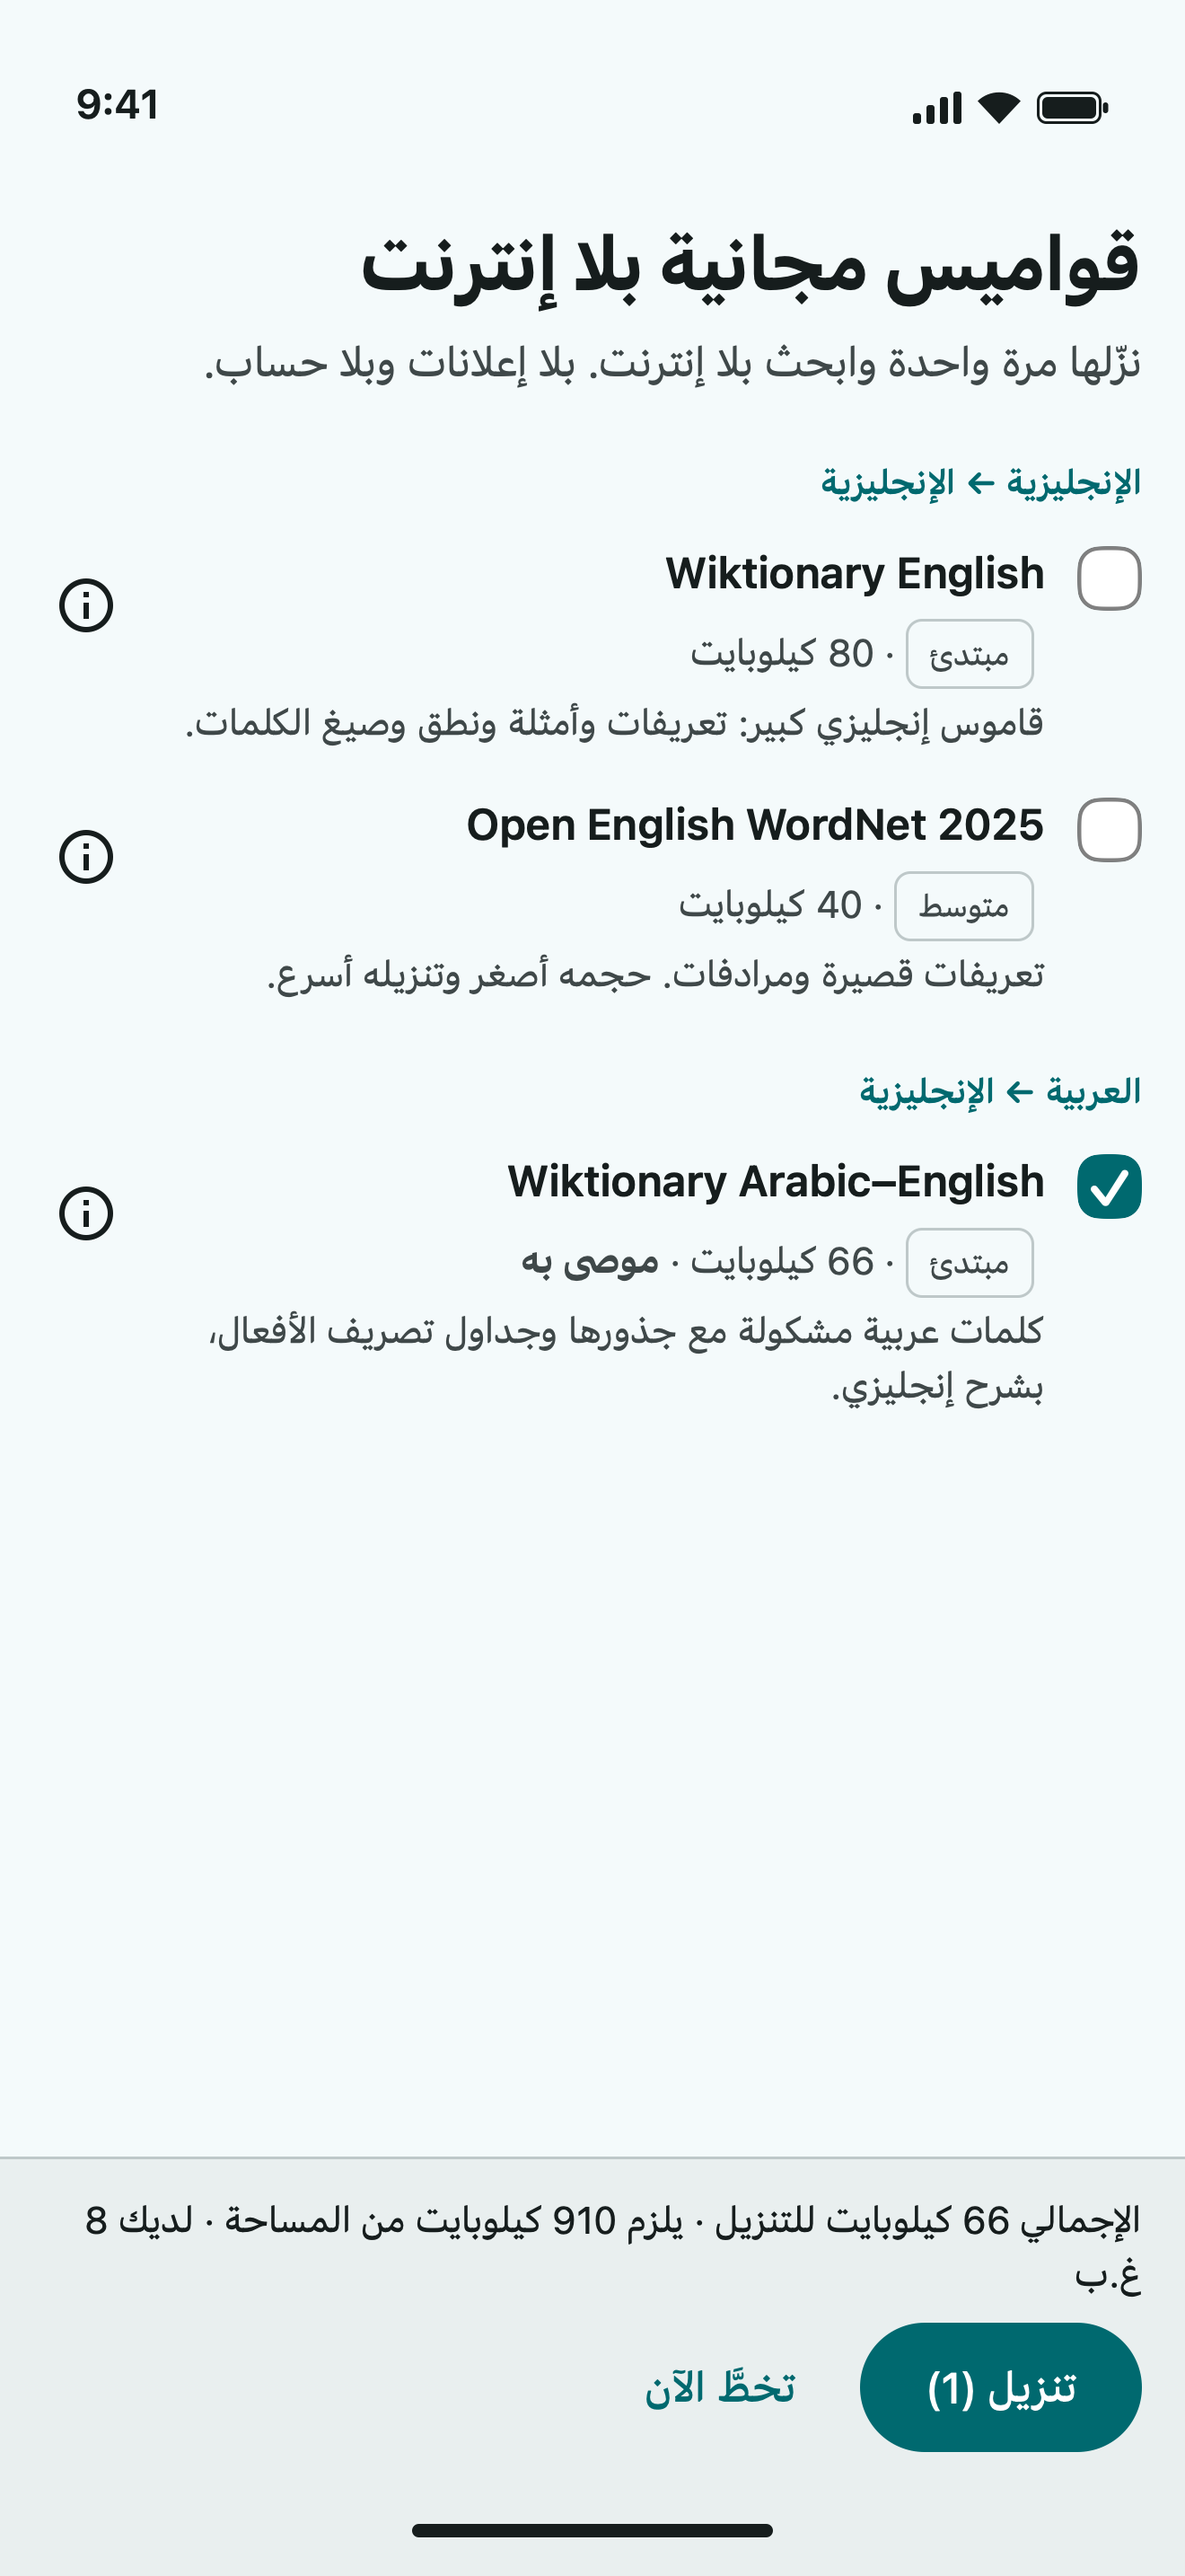
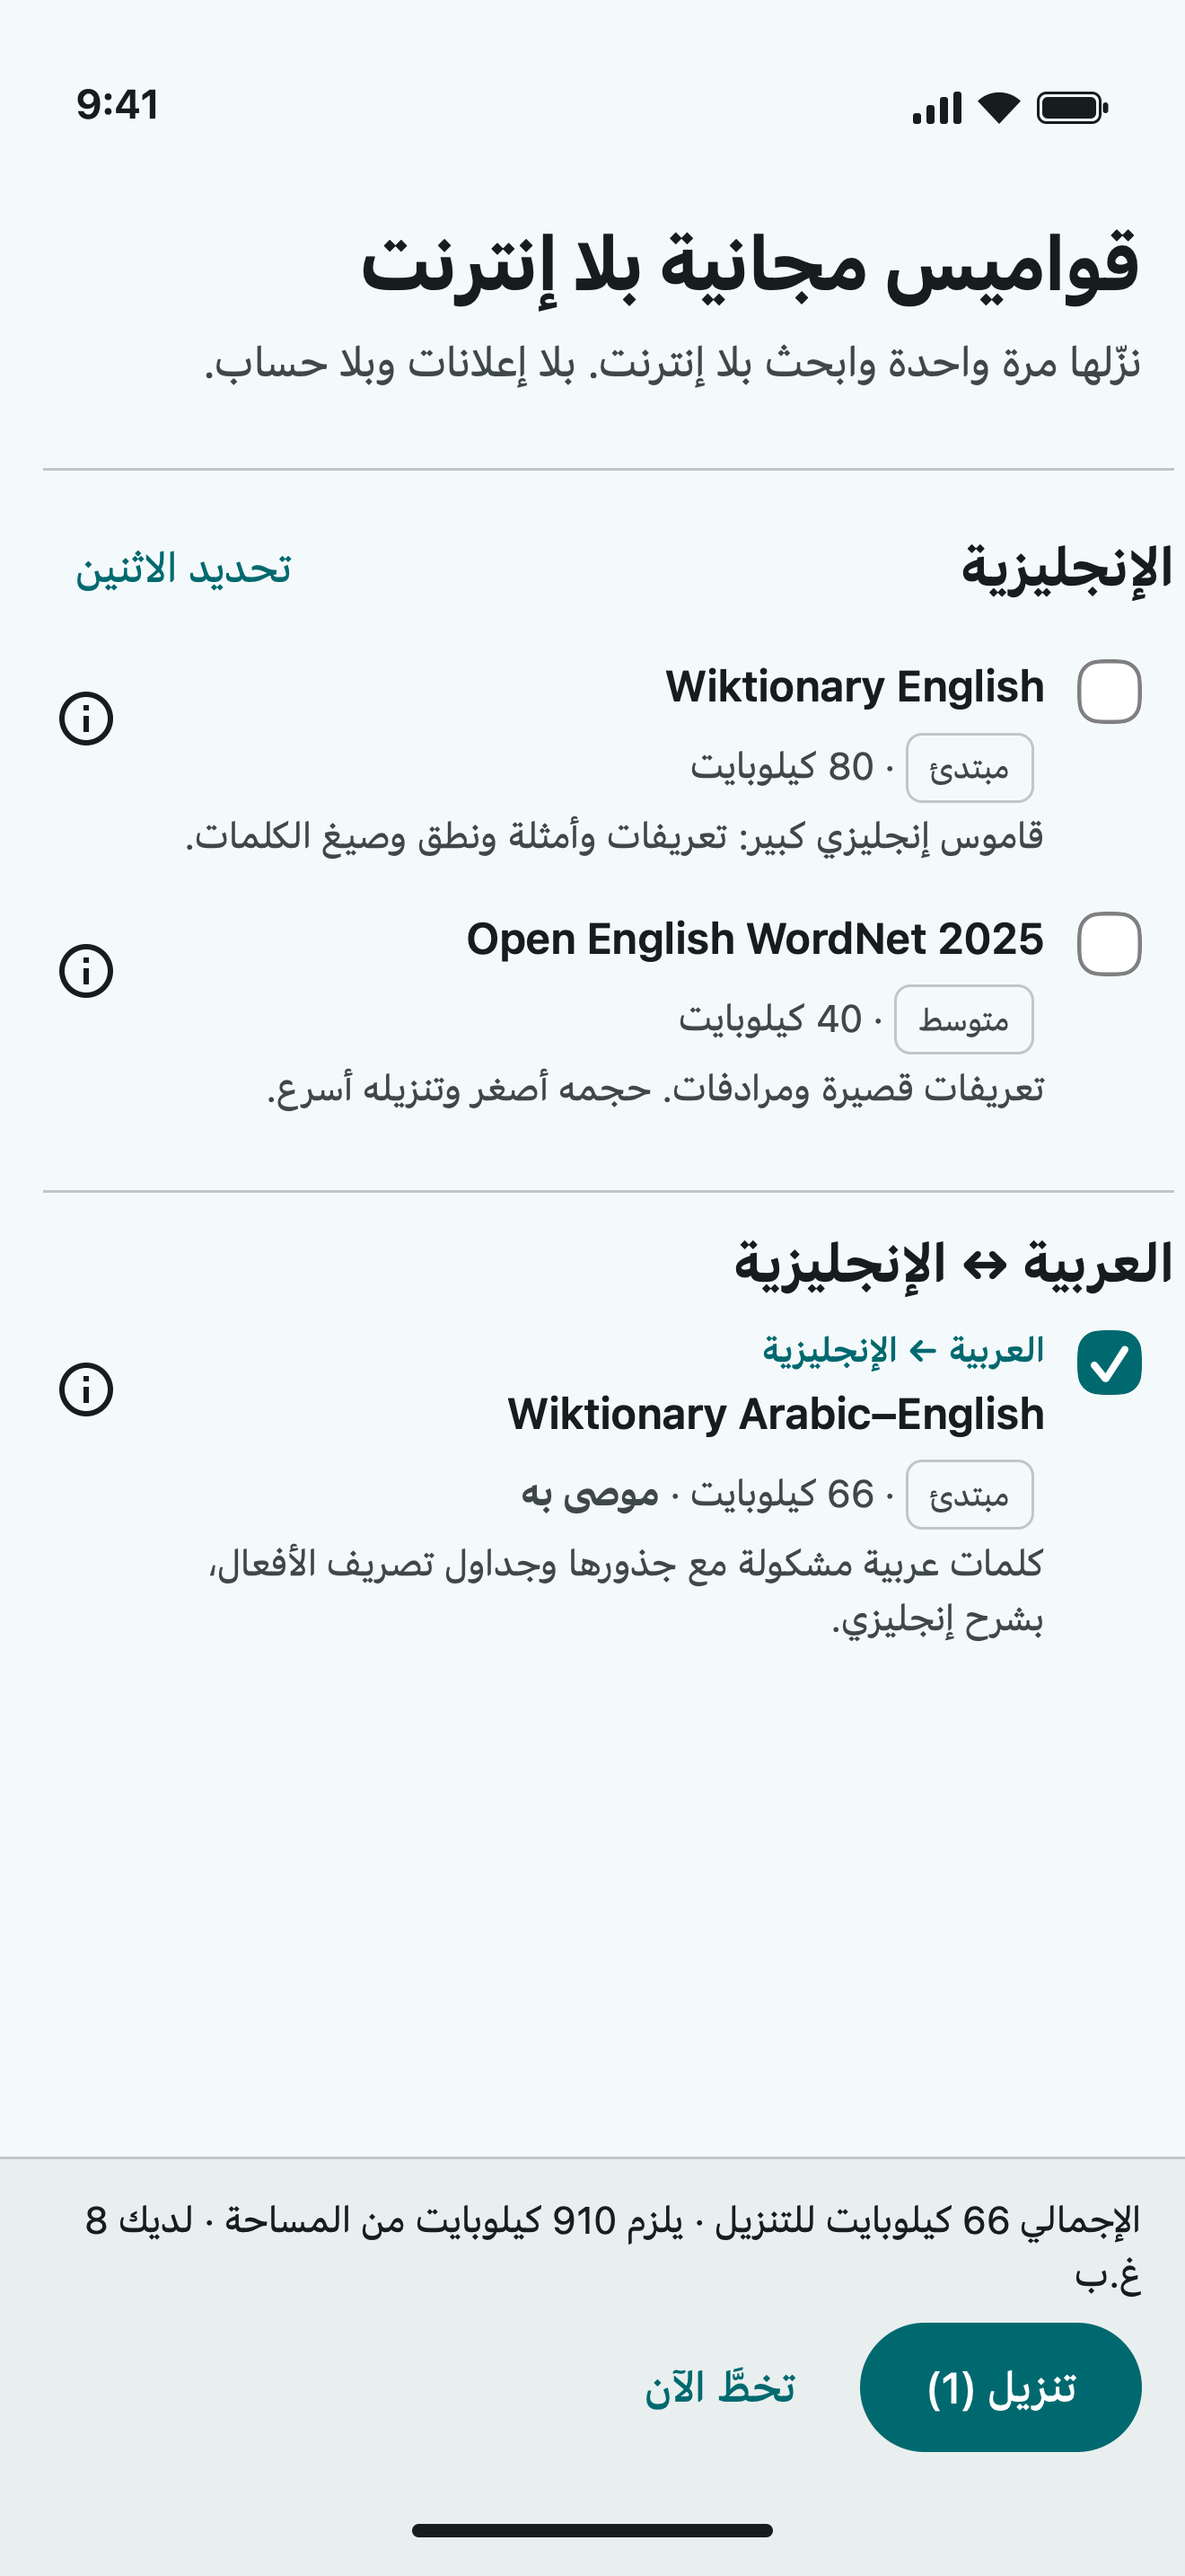
Refresh the App Store screenshots of the regrouped dictionary list

diff --git a/docs/RELEASING.md b/docs/RELEASING.md
@@ -2,7 +2,7 @@
 
 How to ship an app update to Google Play and the App Store. Publishing a dictionary package or a catalog change does not need an app release: see [pipeline/README.md § Publishing a dictionary](../pipeline/README.md#publishing-a-dictionary).
 
-**Where things stand** (update this line when you ship): 1.1.1, build 3, is in review on Google Play production. On iOS, 1.1.0 (build 2) is waiting for App Review with release after approval; 1.1.1 is not uploaded to TestFlight yet and its App Store screenshots are not regenerated — once 1.1.0 is approved, run `just screenshots-ios`, `just ios-beta`, `just metadata-ios` and submit. The next upload needs build number 4 or higher on Android, 3 or higher on iOS.
+**Where things stand** (update this line when you ship): 1.1.1, build 3, is in review on Google Play production. On iOS, 1.1.0 (build 2) is waiting for App Review with release after approval; 1.1.1 (build 3) is on TestFlight with its screenshots committed — once 1.1.0 is approved, run `just metadata-ios` and submit 1.1.1. The next upload needs build number 4 or higher on Android, 3 or higher on iOS.
 
 The flow, in short:
 
